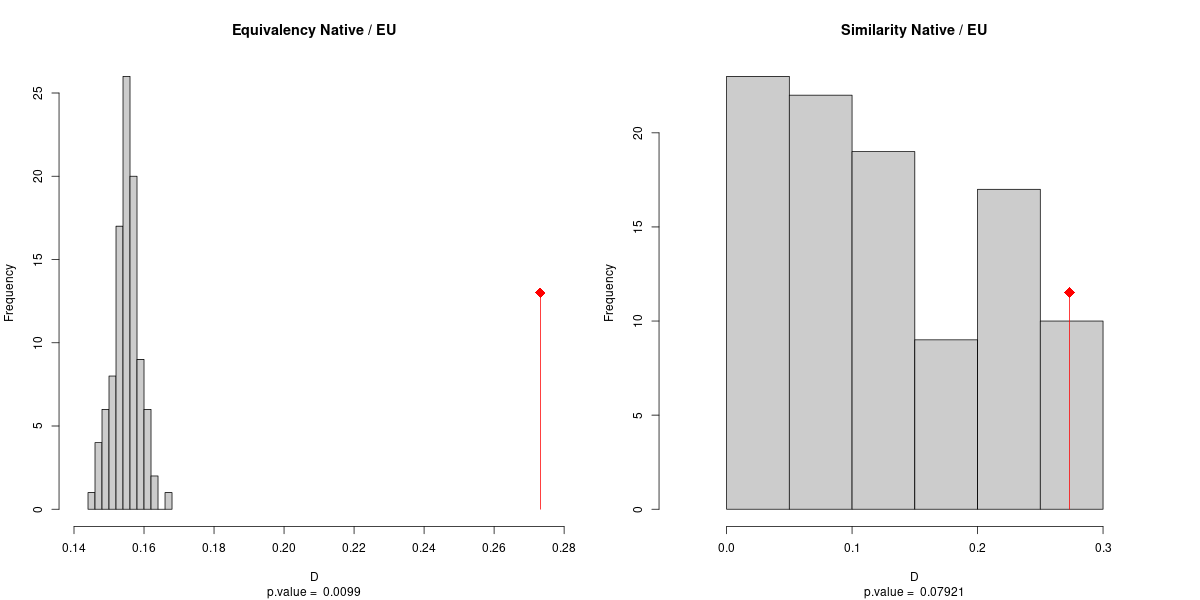
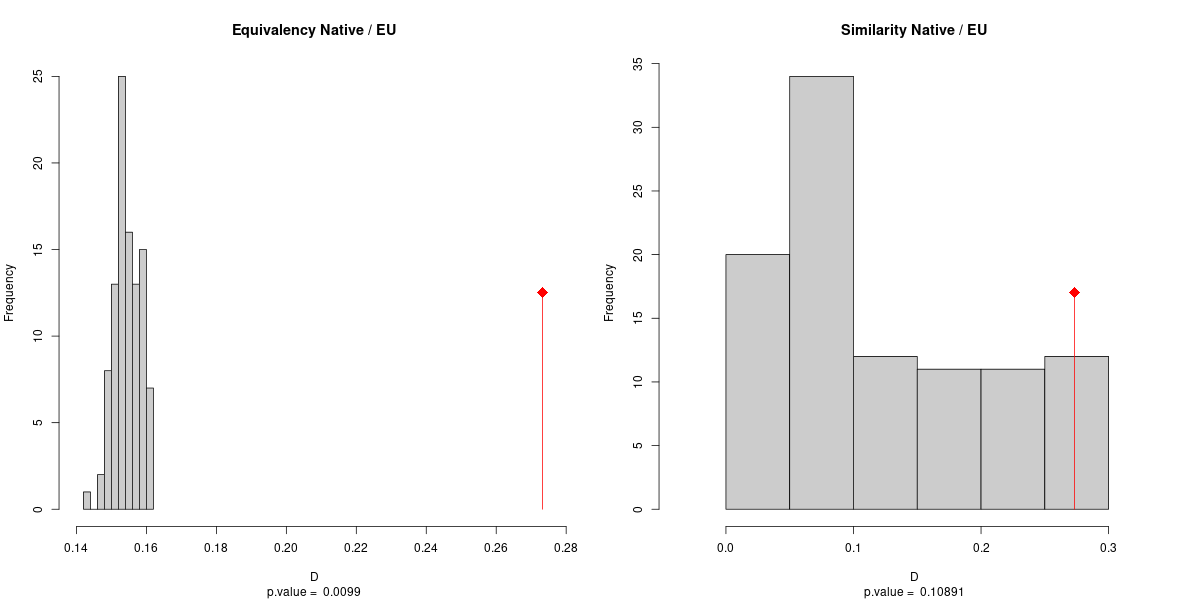
var_select with gam + native performance europe

diff --git a/notebook.md b/notebook.md
@@ -282,3 +282,10 @@ The methods chapter was updated to the current status.
 Niche comparison was edited to save the niche overlap, equality and similarity results for further analysis.
 Equality and similarity tests were shifted to be optional.
 A pearson correlation test was implemented, trying to see if model accuracy is more dependent on data amount or state of invasion (niche overlap).
+
+### 12/10/2023
+After a meeting, some suggestions were implemented to try and find the underlying issues with the models.
+Variable selection now uses a gam instead of a glm to select variables, no quadratic versions are included anymore.
+A plot to visualize performance of the native model was implemented, it actually performs quite well, especially in predicting later years.
+Model building now uses fewer points, randomly sampled for each year to only use 1/2. (save time while testing)
+Using even less seemed to impact the results too much to be comparable to using all data.
